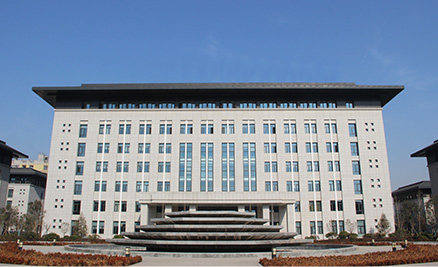
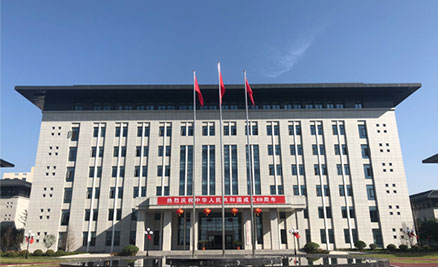
调整banner和首页图片

diff --git a/resources/views/test.blade.php b/resources/views/test.blade.php
@@ -112,7 +112,7 @@
                         <a href="http://www.jinghechengfu.com/admin/news/37"><img src="images/banner5.jpg" alt=""></a>
                     </div>--}}
                     <div class="swiper-slide">
-                        <a href="http://www.jinghechengfu.com/admin/news/17"><img src="images/banner4.jpg" alt=""></a>
+                        <a href="https://mp.weixin.qq.com/s/GnOIfBBKqOJomMVBriOizg"><img src="images/banner5.jpeg" alt=""></a>
                     </div>
                 </div>
                 <!-- 如果需要分页器 -->
